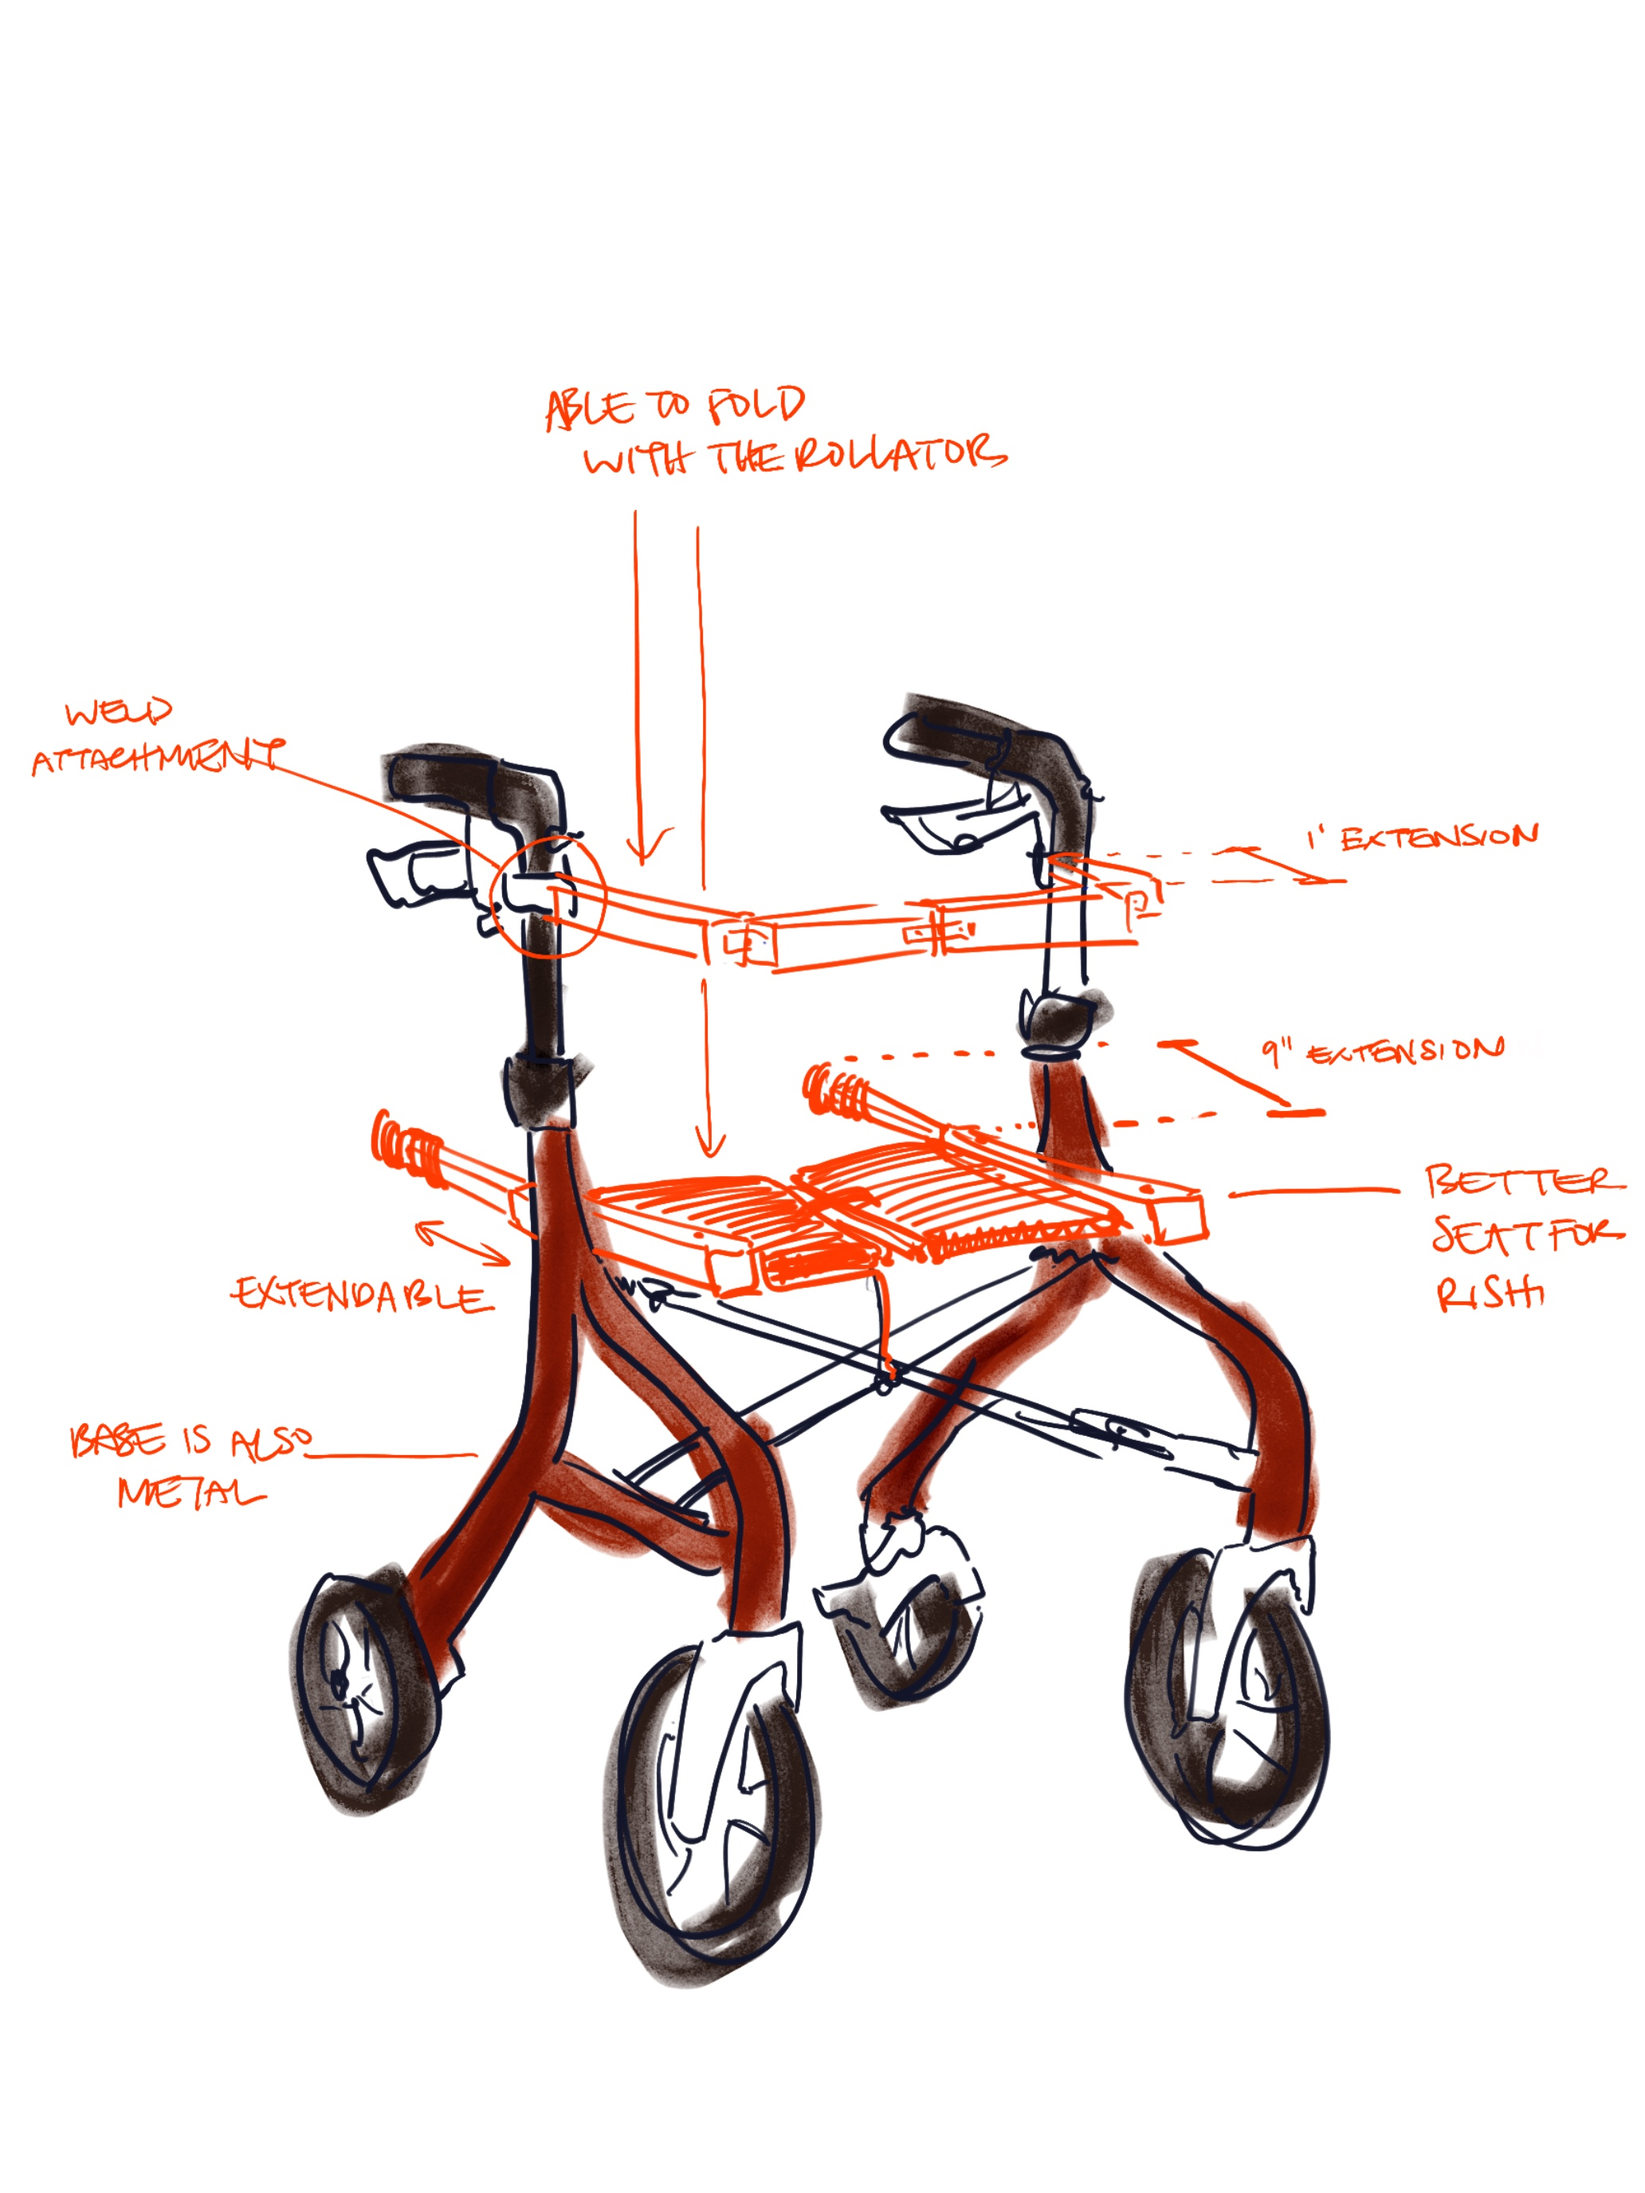
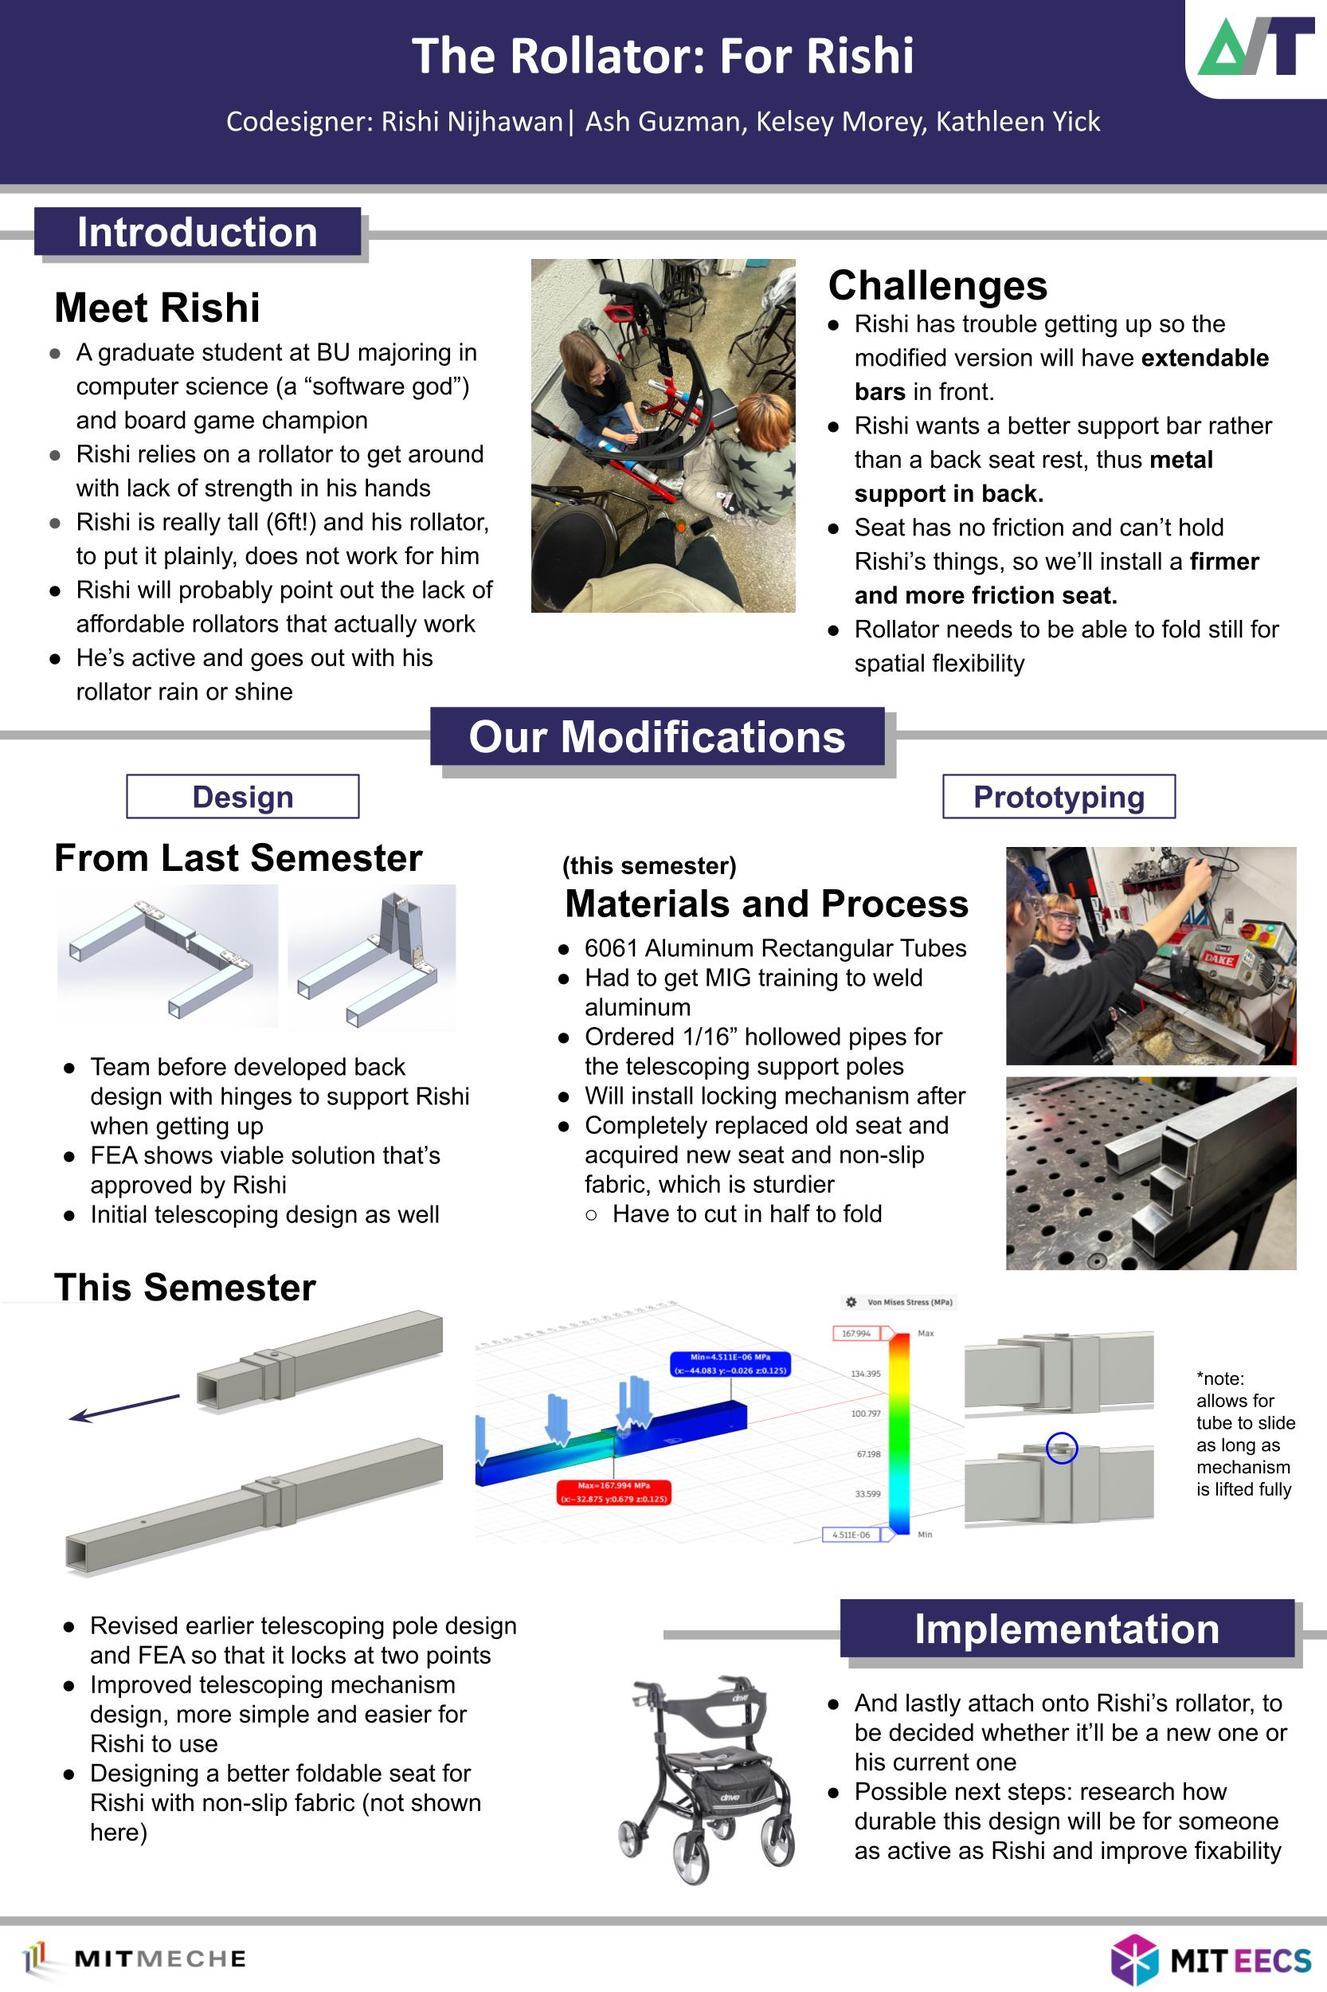
Hide sample projects; update Life, Black Pearl Dress and Rollator
Add a hidden: true option and use it on the placeholder and the six
example projects. Apply the Life text and first photo, the Black Pearl
Dress title, link and featured flag, and the new Rollator photo order.

diff --git a/index.html b/index.html
@@ -75,13 +75,13 @@
        This list is updated whenever a project is added with Claude's help.
        If you add one by hand, give it the next number and add a line here.
 
-       [P0]  Example project                      engineering  2026   ← placeholder, copy me
-       [P1]  Compliant gripper for fragile parts  engineering  2025
-       [P2]  Solar tracker control loop           engineering  2024
-       [P3]  Heat exchanger test rig              engineering  2024
-       [P4]  Ceramics studio identity             design       2025
-       [P5]  Transit wayfinding kit               design       2024
-       [P6]  Sourdough log                        fun          2023–2025
+       [P0]  Example project                      engineering  2026   ← placeholder, copy me (hidden)
+       [P1]  Compliant gripper for fragile parts  engineering  2025   (hidden example)
+       [P2]  Solar tracker control loop           engineering  2024   (hidden example)
+       [P3]  Heat exchanger test rig              engineering  2024   (hidden example)
+       [P4]  Ceramics studio identity             design       2025   (hidden example)
+       [P5]  Transit wayfinding kit               design       2024   (hidden example)
+       [P6]  Sourdough log                        fun          2023–2025   (hidden example)
        [P7]  Rapid Scrap Data Collection Box      engineering  2026
        [P8]  4-Sided Metal Folder                 design       2025
        [P9]  Metal Creatures                      fun          2025
@@ -329,6 +329,8 @@ const CATEGORIES = [
        link         a web address; adds a "Visit project ↗" button
        featured     true = also shown in "Featured Projects" on About Me
                     (only the first three featured projects appear there)
+       hidden       true = kept in this file but not shown on the website
+                    (leave it out, or false, to show the project)
 
      Only title, category and blurb are required.
      Anything else can be  ""  or  []  and the page simply leaves it out.
@@ -388,7 +390,8 @@ const PROJECTS = [
 
 
   /* ▼▼ PLACEHOLDER PROJECT (3 photos) — copy this block for each new project ▼▼
-     Fill it in, or delete it, before you publish.
+     It has  hidden: true  so it never shows on the website.
+     Remove that line from your copy.
      Give each copy the next free tag ([P7], [P8] ...) in the comment above
      its opening  {  and add it to the PROJECT INDEX at the top of the file.
 
@@ -442,6 +445,10 @@ What you would do differently next time.
 
     // ✏ true = also shown under "Featured Projects" on the About Me page.
     featured: false,
+
+    // ✏ true = kept in this file but NOT shown on the website.
+    //    DELETE THIS LINE in your copy, or your new project stays hidden.
+    hidden: true,
   },
   /* ▲▲ END OF PLACEHOLDER ▲▲ */
 
@@ -544,7 +551,6 @@ I had to adjust the scale and space out the cuts more whenever a fold was too di
 
   /* [P10] Black Pearl Dress · design · 2023 */
   {
-    // ✏ DRAFT: notes.txt only had "B", so this comes from the folder name.
     title: "Black Pearl Dress",
     category: "design",
     year: "2023",
@@ -568,8 +574,8 @@ The process went through multiple iterations, including a corset alternative to 
 
     role: "Design, fabrication, photography",
     tools: "Sewing machine, design, prototyping",
-    link: "",
-    featured: false,
+    link: "https://www.instagram.com/p/Cwn7QzNgjyl/",
+    featured: true,
   },
 
   /* [P11] My Sister's Prom Dress · design · 2022 */
@@ -663,7 +669,7 @@ Designed around the theme of "whimsical," with a sketchy look to match.
     blurb: "Rollator modifications for a codesigner who wanted extra support for his tall stature: foldable back handles and extendable support bars.",
 
     // ✏ DRAFT: notes.txt left the description blank, so this is
-    // drafted from the poster (photo 1). Refine freely.
+    // drafted from the poster (photo 2). Refine freely.
     description: `
 Rishi, a graduate student at BU, relies on a rollator to get around, but at 6 ft his off-the-shelf one does not work for him. He has trouble getting up, wants a real support bar instead of a back rest, and needs a seat that holds his things. The rollator also still has to fold.
 
@@ -672,7 +678,7 @@ Building on last semester's hinged back design, our team of four revised the tel
 Next steps: attach the modifications to Rishi's rollator, and test how durable the design is for someone as active as Rishi.
     `,
 
-    // 1 = the project poster (thumbnail), 2 = annotated concept sketch.
+    // 1 = annotated concept sketch (thumbnail), 2 = the project poster.
     images: [
       "images/rollator/1.jpg",
       "images/rollator/2.jpg",
@@ -688,7 +694,8 @@ Next steps: attach the modifications to Rishi's rollator, and test how durable t
 
 
 
-  /* ▼▼ EXAMPLE PROJECTS — replace these with your own ▼▼ */
+  /* ▼▼ EXAMPLE PROJECTS — hidden from the website (hidden: true) ▼▼
+     Kept only as writing examples. Delete them whenever you like. */
 
   /* [P1] Compliant gripper for fragile parts · engineering · 2025 */
   {
@@ -708,6 +715,7 @@ What I'd change: the first version was tuned for dry slides. Wet ones slipped un
     tools: "SolidWorks, Ansys, SLS nylon",
     link: "",
     featured: true,
+    hidden: true,
   },
 
   /* [P2] Solar tracker control loop · engineering · 2024 */
@@ -726,6 +734,7 @@ Measured against a fixed panel on the same roof over six weeks: +22% average dai
     tools: "STM32, C, aluminium extrusion",
     link: "",
     featured: true,
+    hidden: true,
   },
 
   /* [P3] Heat exchanger test rig · engineering · 2024 */
@@ -744,6 +753,7 @@ The useful part turned out to be the fixture, not the electronics: a quick-relea
     tools: "Python, thermocouples, LabJack",
     link: "",
     featured: false,
+    hidden: true,
   },
 
   /* [P4] Ceramics studio identity · design · 2025 */
@@ -762,6 +772,7 @@ Delivered as a two-page guide, a set of pre-sized templates, and a folder of sho
     tools: "Figma, Risograph",
     link: "",
     featured: true,
+    hidden: true,
   },
 
   /* [P5] Transit wayfinding kit · design · 2024 */
@@ -780,6 +791,7 @@ I mapped every decision point a passenger passes through, counted how many carri
     tools: "Illustrator, field survey",
     link: "",
     featured: false,
+    hidden: true,
   },
 
   /* [P6] Sourdough log · fun · 2023–2025 */
@@ -798,6 +810,7 @@ The scatter plot answered a question I'd been arguing about for a year: bulk tem
     tools: "A notebook, then a spreadsheet",
     link: "",
     featured: false,
+    hidden: true,
   },
 
   /* ▲▲ END OF EXAMPLES ▲▲ */
@@ -820,7 +833,7 @@ const LIFE = {
   // ✏ EDITABLE
   // Text above the photos. A blank line = a new paragraph.
   intro: `
-Outside of coursework I'm usually in the ceramics studio, on a trail somewhere with a film camera, or feeding a sourdough starter that has outlasted three apartments.
+I'm from Greater Boston, Massachusetts and own way too many journals and sketchbooks. I will always be the type to try everything at least once.
   `,
 
   // ✏ EDITABLE
@@ -832,12 +845,14 @@ Outside of coursework I'm usually in the ceramics studio, on a trail somewhere w
   //     "images/life/1.jpg",
   //     "images/life/2.jpg",
   //   ],
-  photos: [],
+  photos: [
+    "images/life/1.jpg",
+  ],
 
   // ✏ EDITABLE
   // Text below the photos. A blank line = a new paragraph.
   outro: `
-I'm always up for a conversation about manufacturing constraints, well-designed signage, or where to find good bread. The fastest way to reach me is email.
+Outside of coursework and makerspaces, you can usually find me climbing indoors and playing tennis in terrible weather. More reliably, you can contact me via email if you're curious about any of my work.
   `,
 
   // ✏ EDITABLE
@@ -1671,6 +1686,10 @@ button.ttl:hover, .feat:hover .ttl { color: var(--accent); }
   /* ── 4h. START ──────────────────────────────────────────────────────────── */
 
   function init() {
+    // Drop projects marked  hidden: true  before anything is drawn.
+    for (var h = PROJECTS.length - 1; h >= 0; h--) {
+      if (PROJECTS[h].hidden) PROJECTS.splice(h, 1);
+    }
     PROJECTS.forEach(function (p, i) {
       p._id = i;
       if ((p.images || []).length > MAX_IMAGES) {
